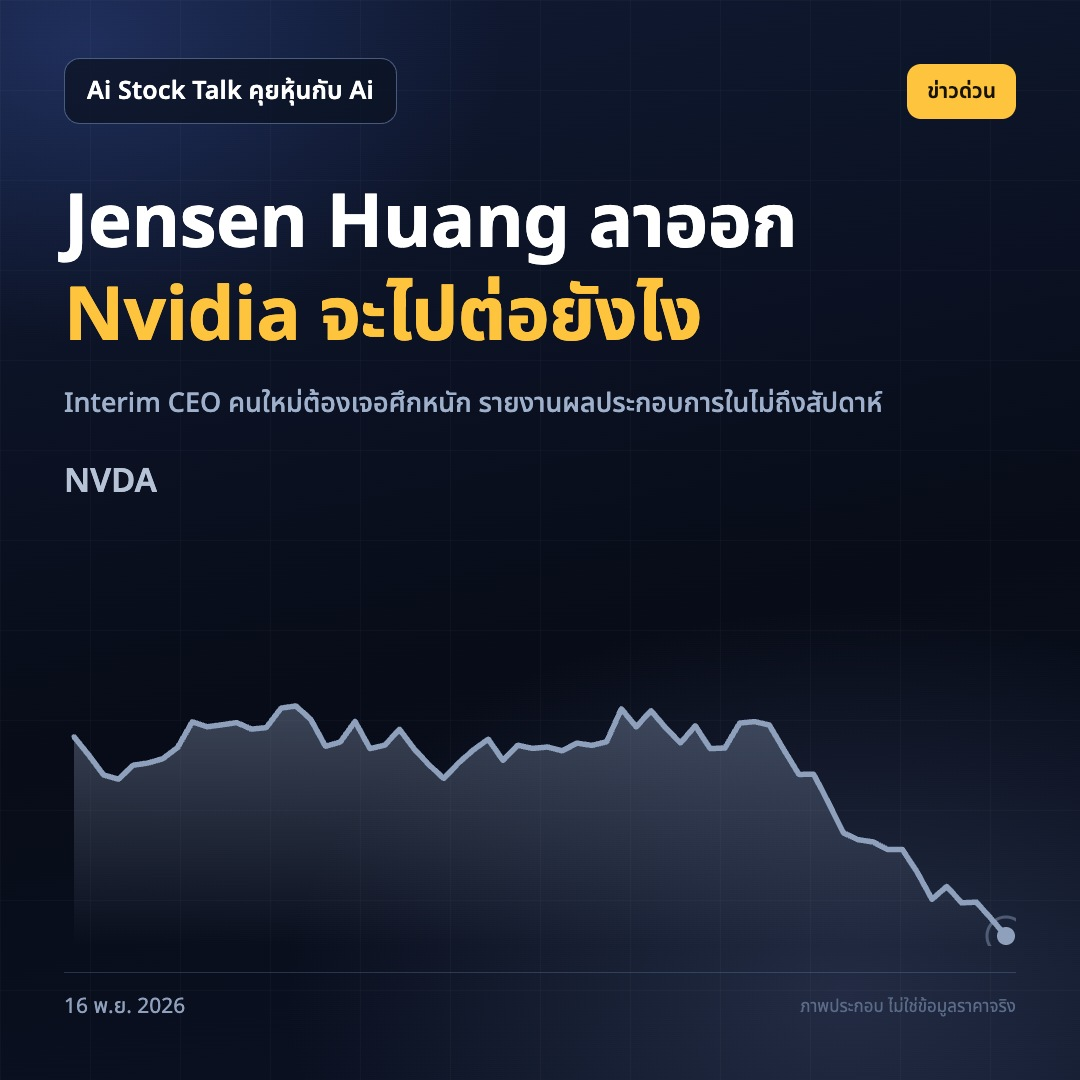
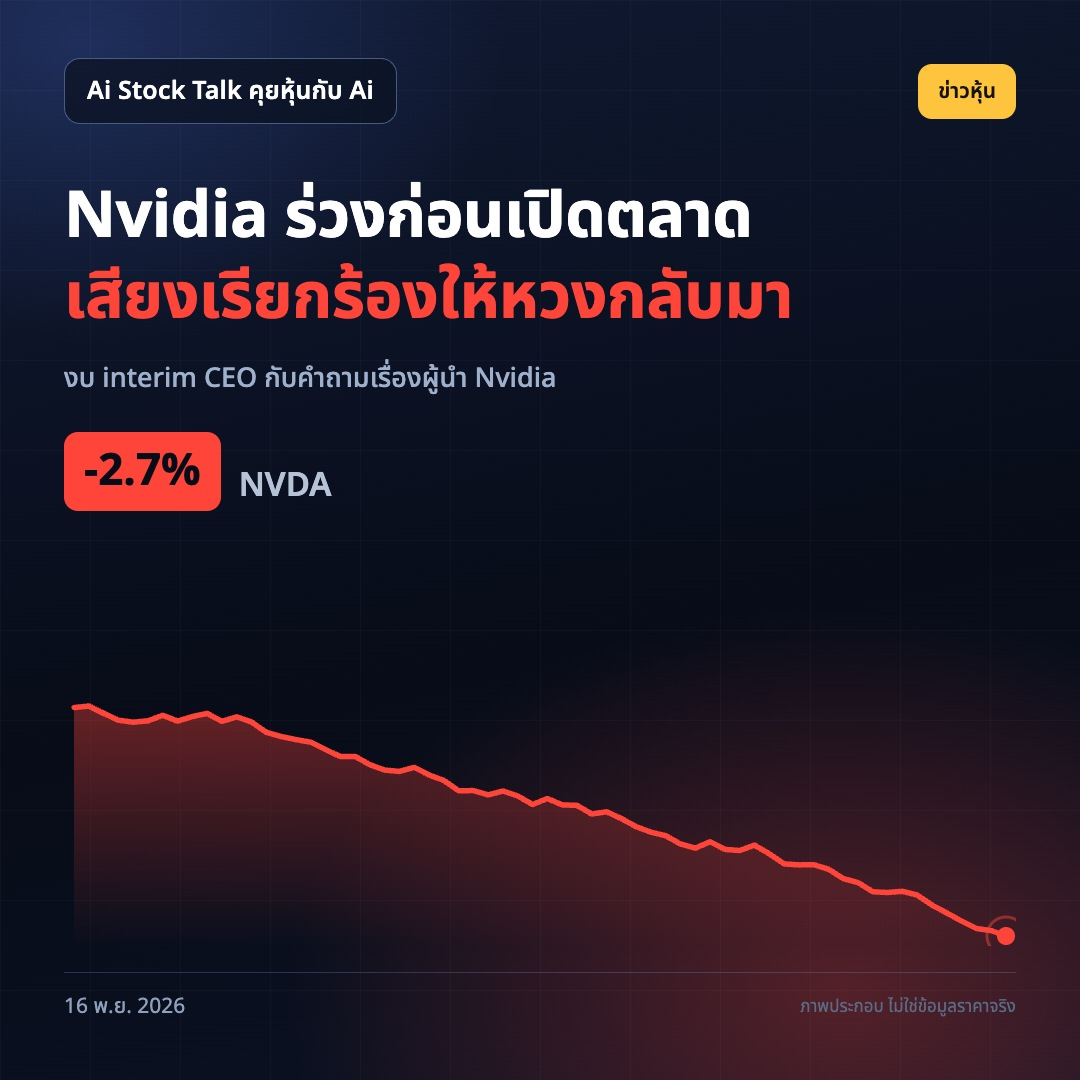
radar: 2026-11-16/17 (agent-mode posts)

Changed region(s): [[0.0611, 0.6417, 1.0, 1.0], [0.0611, 0.1528, 0.825, 0.4889], [0.825, 0.0611, 0.9167, 0.1222]]

diff --git a/docs/2026-11-17.html b/docs/2026-11-17.html
@@ -1,0 +1,68 @@
+<!doctype html>
+<html lang="th"><head>
+<meta charset="utf-8">
+<meta name="viewport" content="width=device-width,initial-scale=1">
+<title>Ai Stock Talk คุยหุ้นกับ Ai — 17 พ.ย. 2026</title>
+<meta name="description" content="Horizon AI News Radar — สรุปข่าว AI/เทคโนโลยี/การเงิน ภาษาไทยรายวัน">
+<meta property="og:title" content="Ai Stock Talk คุยหุ้นกับ Ai — 17 พ.ย. 2026">
+<meta property="og:description" content="สรุปข่าว AI/Tech/Finance ภาษาไทยรายวัน">
+<meta property="og:image" content="https://tstevy3a.github.io/horizon-ai-radar/img/cover-2026-11-17.jpg">
+<link rel="stylesheet" href="assets/style.css">
+</head><body><div class="wrap">
+<header class="top">
+  <a href="index.html" style="color:#fff;font-weight:700;font-size:16px">Horizon AI News Radar</a>
+  <span class="badge">รายวัน</span>
+</header>
+<h1>Ai Stock Talk คุยหุ้นกับ Ai — 17 พ.ย. 2026</h1>
+<p class="meta">เผยแพร่ 2026-11-17</p>
+<img class="cover" src="img/cover-2026-11-17.jpg" alt="ภาพปกข่าว 2026-11-17">
+<article><h2>1. เศรษฐกิจจีนชะลอตัวรอบ ต.ค. ค้าปลีก-ผลผลิต-ลงทุน ต่ำกว่าคาดพร้อมกัน</h2>
+<p><img alt="cover" src="img/post-1-cover-2026-11-17.jpg" /></p>
+<p>ยอดค้าปลีก ผลผลิตอุตสาหกรรม และการลงทุนของจีนเดือน ต.ค. ออกมาต่ำกว่าที่นักวิเคราะห์คาดพร้อมกันทั้งสามตัว
+การที่ตัวเลขหลักอ่อนพร้อมกันบ่งชี้ว่าแรงส่งในประเทศกำลังแผ่ว และเศรษฐกิจจีนต้องพึ่งความต้องการจากต่างประเทศมากขึ้น
+นักวิเคราะห์เตือนว่าเมื่อพึ่งการส่งออกมากขึ้น เศรษฐกิจจีนก็รับแรงกระแทกจากภายนอกได้ง่ายขึ้นตามไปด้วย
+ทำไมต้องสน: จีนเป็นคู่ค้าหลักของไทยทั้งส่งออก ผลไม้ ท่องเที่ยว และวัตถุดิบอุตสาหกรรม ตัวเลขที่อ่อนต่อเนื่องกดความเชื่อมั่นหุ้นไทยกลุ่มส่งออกและท่องเที่ยวได้
+คุณคิดว่าหุ้นไทยกลุ่มไหนจะรับผลจากเศรษฐกิจจีนชะลอตัวมากที่สุด?
+ที่มา: https://www.cnbc.com/2026/11/16/china-retail-sales-october-industrial-output-investment.html</p>
+<h1>เศรษฐกิจจีน #หุ้นไทย #ส่งออก</h1>
+<h2>2. IMF เตือนเงินหมุนเวียนในกลุ่ม AI แตะ 1 ล้านล้านดอลลาร์ สองในสามเป็นหนี้</h2>
+<p><img alt="cover" src="img/post-2-cover-2026-11-17.jpg" /></p>
+<p>IMF ระบุว่าเงินหมุนเวียนระหว่างบริษัท AI หรือ circular financing พุ่งแตะกว่า 1 ล้านล้านดอลลาร์แล้ว โดยประมาณสองในสามเป็นหนี้
+คริสตาลินา จอร์เจียวา ผู้อำนวยการ IMF อธิบายว่าเศรษฐกิจโลกตอนนี้ยืนขาเดียว เพราะพึ่งความคึกคักของ AI เป็นแรงส่งหลัก
+circular financing คือการที่บริษัท AI ลงทุนข้ามกันไปมาเป็นวงจร เมื่อเงินก้อนใหม่หยุดหมุน ความเสี่ยงจะลามทั้งห่วงโซ่
+ทำไมต้องสน: เงินที่ดันราคาหุ้น AI มาบางส่วนเป็นหนี้ ไม่ใช่กำไรจริง เมื่อดอกเบี้ยหรือความเชื่อมั่นเปลี่ยน แรงขายจะมาจากฝั่งที่ต้องปิดสถานะ
+ถ้าเงินลงทุน AI เริ่มชะลอ คุณจะลดความเสี่ยงพอร์ตด้วยวิธีไหน?
+ที่มา: https://www.cnbc.com/2026/11/16/imf-georgieva-warning-ai-circular-financing.html</p>
+<h1>ไอเอ็มเอฟ #หุ้นเอไอ #ความเสี่ยงตลาด</h1>
+<h2>3. ถ้าฟองสบู่ AI แตก ตลาดอาจร่วง 25% ประเมินโดยอดีตที่ปรึกษาเศรษฐกิจทำเนียบขาว</h2>
+<p><img alt="cover" src="img/post-3-cover-2026-11-17.jpg" /></p>
+<p>เจสัน เฟอร์แมน อดีตประธานสภาที่ปรึกษาเศรษฐกิจทำเนียบขาว ประเมินว่า ถ้า AI เป็นฟองสบู่และแตกจริง ตลาดหุ้นโดยรวมมีโอกาสร่วงราว 25%
+เขามองว่านี่คือสถานการณ์ที่น่าจะเป็นที่สุด ไม่ใช่กรณีเลวร้ายสุดขั้วที่หลายคนจินตนาการ
+ตัวเลข 25% มาจากการเทียบขนาดเงินลงทุน AI กับมูลค่าตลาดรวม ไม่ใช่คำพยากรณ์ว่าฟองสบู่จะแตกเมื่อไร
+ทำไมต้องสน: ตัวเลขนี้ใช้ตั้งรับได้ เช่น ประเมินว่าพอร์ตที่ถือหุ้นเทคหนักจะหายไปเท่าไรถ้าเหตุการณ์นี้เกิด และควรกันเงินสดหรือสินทรัพย์ป้องกันไว้แค่ไหน
+ถ้าตลาดร่วง 25% จริง คุณจะมีแผนซื้อเพิ่มหรือหยุดถือ?
+ที่มา: https://www.marketwatch.com/story/heres-how-much-the-stock-market-could-crumble-if-ai-is-a-bubble-that-bursts-according-to-former-white-house-economist-3a4c15e1?mod=mw_rss_topstories</p>
+<h1>ฟองสบู่เอไอ #หุ้นสหรัฐ #พอร์ตลงทุน</h1>
+<h2>4. จรวด Vulcan ล้มเหลว ดาวเทียม Amazon Leo 40 ดวงไม่ถึงวงโคจร</h2>
+<p><img alt="cover" src="img/post-4-cover-2026-11-17.jpg" /></p>
+<p>จรวด Vulcan ของ United Launch Alliance ล้มเหลวในการนำดาวเทียม Amazon Leo 40 ดวงขึ้นสู่วงโคจร เมื่อ 15 พ.ย.
+นี่เป็นการล้มเหลวครั้งแรกในประวัติศาสตร์ 20 ปีของ ULA และเป็นเที่ยวบินแรกจากทั้งหมด 38 เที่ยวที่ Amazon ซื้อไว้ล่วงหน้า
+ดาวเทียม Leo เป็นคู่แข่ง Starlink แต่ที่ผ่านมาขึ้นวงโคจรได้เพียงส่วนน้อย ยังไม่พอตั้งเครือข่ายบรอดแบนด์ครบ
+ทำไมต้องสน: ดาวเทียมอินเทอร์เน็ตเป็นโครงสร้างพื้นฐานของคลาวด์และ AI ระยะต่อไป ความล่าช้าครั้งนี้เลื่อนแผนของ Amazon ออกไป และเปลี่ยนจังหวะการแข่งขันในตลาดดาวเทียม
+คุณคิดว่าอินเทอร์เน็ตจากอวกาศจะแข่งกับไฟเบอร์ในไทยได้จริงไหม?
+ที่มา: https://www.theverge.com/science/1034006/vulcan-rocket-fails-destroying-40-amazon-leo-satellites</p>
+<h1>ดาวเทียม #อเมซอน #เทคโนโลยี</h1>
+<h2>5. Zoox เริ่มวิ่งรับผู้โดยสารผ่านแอป Uber ที่ลาสเวกัส</h2>
+<p><img alt="cover" src="img/post-5-cover-2026-11-17.jpg" /></p>
+<p>ผู้ใช้ Uber ในลาสเวกัสเริ่มเรียกใช้รถ robotaxi ของ Zoox ได้แล้ว ถือเป็นครั้งแรกที่ Zoox ซึ่ง Amazon เป็นเจ้าของ ออกให้บริการผ่านแพลตฟอร์มเรียกรถ
+Zoox ใช้รถที่ออกแบบมาเพื่อรับจ้างโดยเฉพาะ ห้องโดยสารนั่งหันหน้าเข้าหากัน และวิ่งได้สองทิศทาง
+ก่อนหน้านี้มีรายงานว่า Uber กับ Waymo เริ่มห่างกัน และการจับมือกับ Zoox คือทางเลือกใหม่ของ Uber
+ทำไมต้องสน: รถไร้คนขับคือปลายทางของ AI ที่จับต้องได้ และเป็นตัวชี้ว่าหุ้นกลุ่มเรียกรถกับการลงทุน robotaxi จะแบ่งเค้กกันใหม่อย่างไร
+ถ้าไทยมี robotaxi ให้ใช้ คุณจะลองนั่งไหม หรือรอให้พิสูจน์ความปลอดภัยก่อน?
+ที่มา: https://www.theverge.com/transportation/1032984/uber-zoox-robotaxi-las-vegas-launch-mgm-resorts-los-angeles</p>
+<h1>รถไร้คนขับ #อูเบอร์ #หุ้นเทคโนโลยี</h1></article>
+<footer>
+  สร้างอัตโนมัติจาก Horizon AI News Radar · <a href="https://tstevy3a.github.io/horizon-ai-radar/">หน้าแรก</a><br>
+  แหล่งข่าว: Hacker News, TechCrunch, The Verge, Ars Technica, CNBC, MarketWatch, Blognone
+</footer>
+</div></body></html>

diff --git a/docs/2026-11-16.html b/docs/2026-11-16.html
@@ -16,23 +16,15 @@
 <h1>Ai Stock Talk คุยหุ้นกับ Ai — 16 พ.ย. 2026</h1>
 <p class="meta">เผยแพร่ 2026-11-16</p>
 <img class="cover" src="img/cover-2026-11-16.jpg" alt="ภาพปกข่าว 2026-11-16">
-<article><h2>1. Jensen Huang ลาออกจาก CEO Nvidia แล้ว Colette Kress รับตำแหน่งทันที</h2>
+<article><h2>1. Nvidia ร่วงก่อนเปิดตลาด เสียงเรียกร้องให้เจนเซน หวง กลับมาดังขึ้น</h2>
 <p><img alt="cover" src="img/post-1-cover-2026-11-16.jpg" /></p>
-<p>Jensen Huang ลาออกจากตำแหน่ง CEO ของ Nvidia แล้ว หลังพาบริษัทครองตลาดชิป AI มายาวนาน</p>
-<p>Colette Kress รับตำแหน่ง interim CEO ทันที และต้องรายงานผลประกอบการในไม่ถึงสัปดาห์</p>
-<p>หุ้น Nvidia ซึ่งขึ้นกับความต้องการชิป AI ทั้งหมดกำลังถูกจับตา ว่าทิศทางบริษัทจะเปลี่ยนไปแค่ไหน โดยเฉพาะเมื่อลูกค้ารายใหญ่อย่างบริษัทยักษ์ใหญ่เทคเริ่มพัฒนาชิปใช้เอง</p>
-<p>ทำไมต้องสน: Nvidia คือกระดูกสันหลังของ AI ทั้งอุตสาหกรรม การเปลี่ยนผู้นำตอนตลาดผันผวนส่งผลถึงหุ้นเทคโนโลยีทั่วโลก</p>
-<p>คิดยังไงกับการลาออกครั้งนี้ หุ้น AI ในพอร์ตยังถือต่อไหม</p>
-<p>ที่มา: https://www.cnbc.com/2026/11/16/nvidia-jensen-huang-return-tech.html, https://www.theverge.com/ai-artificial-intelligence/1031740/jensen-huang-nvidia-scandal-isnt-slowing-down</p>
-<h1>Nvidia #JensenHuang #AIStocks #หุ้นเทคโนโลยี</h1>
-<h2>2. Alibaba ปล่อย Qwen4-Max ชน GPT-6.1 Sol ราคาถูกกว่าหลายเท่า</h2>
-<p><img alt="cover" src="img/post-2-cover-2026-11-16.jpg" /></p>
-<p>Alibaba เปิดตัว Qwen4-Max โมเดลภาษาขนาดใหญ่รุ่นใหม่ ตั้งค่าระดับการให้เหตุผลได้ 4 ระดับ</p>
-<p>คะแนนจาก Artificial Analysis ได้ 43 แต้ม ค่าใช้จ่ายเฉลี่ย $3.27 ต่อการเรียกใช้ ขณะที่ GPT-6.1 Sol (medium) ได้ 46 แต้ม แต่ค่าใช้จ่ายเฉลี่ยเพียง $0.36</p>
-<p>ทำไมต้องสน: โมเดล open-weight จากจีนไล่จี้ OpenAI ติดๆ ผู้ใช้มีทางเลือกมากขึ้น ถูกกว่า เร็วกว่า หรือถูกกว่ามากแล้วแต่กรณี</p>
-<p>เลือกใช้อะไรระหว่าง Qwen4-Max กับ GPT-6.1 Sol</p>
-<p>ที่มา: https://qwen.ai/blog?id=qwen4-max</p>
-<h1>Qwen4Max #Alibaba #LLM #AI</h1></article>
+<p>หุ้น Nvidia ร่วง 2.7% ในตลาดพรีมาร์เก็ตวันจันทร์ หลังนักลงทุนเริ่มคิดราคาผลกระทบจากการลาออกของเจนเซน หวง
+เสียงเรียกร้องให้เขากลับมาเป็นซีอีโอกำลังดังขึ้น ทั้งจากผู้บริหารบริษัทเทคและผู้ถือหุ้นรายใหญ่ ขณะที่ Colette Kress ซีอีโอชั่วคราวต้องรายงานผลประกอบการครั้งแรกหลังหวงอำลา
+ฝั่งนักวิเคราะห์ยังให้ราคาเป้าหมายกลางที่ 280 ดอลลาร์ สูงกว่าราคาปัจจุบันมาก สะท้อนว่าตลาดยังแยกเรื่องคนคุมบริษัทออกจากกำลังซื้อชิปที่ยังแข็ง
+ทำไมต้องสน: คนไทยที่ถือหุ้นสหรัฐหรือกองทุนเทคโนโลยีควรจับตางบสัปดาห์นี้กับข่าวการกลับมาของหวง เพราะสองเรื่องนี้จะบอกทิศทางหุ้นชิปทั้งกลุ่ม
+ถ้าต้องเลือก คุณอยากให้หวงกลับมาเป็นซีอีโอ หรือให้บอร์ดเลือกคนใหม่ที่มาจากสายปฏิบัติการ?
+ที่มา: https://www.cnbc.com/2026/11/16/nvidia-stock-price-jensen-huang.html</p>
+<h1>เอ็นวิเดีย #หุ้นชิป #หุ้นสหรัฐ</h1></article>
 <footer>
   สร้างอัตโนมัติจาก Horizon AI News Radar · <a href="https://tstevy3a.github.io/horizon-ai-radar/">หน้าแรก</a><br>
   แหล่งข่าว: Hacker News, TechCrunch, The Verge, Ars Technica, CNBC, MarketWatch, Blognone

diff --git a/docs/index.html b/docs/index.html
@@ -13,7 +13,8 @@
   <a href="index.html" style="color:#fff;font-weight:700;font-size:16px">Horizon AI News Radar</a>
   <span class="badge">รายวัน</span>
 </header>
-<h1>Ai Stock Talk คุยหุ้นกับ Ai — 16 พ.ย. 2026</h1><p class="meta">ฉบับล่าสุด 2026-11-16</p><a class="card" href="2026-11-16.html"><div class="t">อ่านฉบับเต็ม →</div></a><h2 style='font-size:19px;margin-top:34px'>ย้อนหลัง</h2><a class="card" href="2026-11-16.html"><div class="d">2026-11-16</div><div class="t">Ai Stock Talk คุยหุ้นกับ Ai — 16 พ.ย. 2026</div><div class="s"></div></a>
+<h1>Ai Stock Talk คุยหุ้นกับ Ai — 17 พ.ย. 2026</h1><p class="meta">ฉบับล่าสุด 2026-11-17</p><a class="card" href="2026-11-17.html"><div class="t">อ่านฉบับเต็ม →</div></a><h2 style='font-size:19px;margin-top:34px'>ย้อนหลัง</h2><a class="card" href="2026-11-17.html"><div class="d">2026-11-17</div><div class="t">Ai Stock Talk คุยหุ้นกับ Ai — 17 พ.ย. 2026</div><div class="s"></div></a>
+<a class="card" href="2026-11-16.html"><div class="d">2026-11-16</div><div class="t">Ai Stock Talk คุยหุ้นกับ Ai — 16 พ.ย. 2026</div><div class="s"></div></a>
 <a class="card" href="2026-11-14.html"><div class="d">2026-11-14</div><div class="t">Ai Stock Talk คุยหุ้นกับ Ai — 14 พ.ย. 2026</div><div class="s"></div></a>
 <a class="card" href="2026-11-13.html"><div class="d">2026-11-13</div><div class="t">Ai Stock Talk คุยหุ้นกับ Ai — 13 พ.ย. 2026</div><div class="s"></div></a>
 <footer>

diff --git a/README.md b/README.md
@@ -2,6 +2,7 @@
 
 สรุปข่าวภาษาไทยรายวัน
 
+- [2026-11-17 — Ai Stock Talk คุยหุ้นกับ Ai — 17 พ.ย. 2026](https://tstevy3a.github.io/horizon-ai-radar/2026-11-17.html)
 - [2026-11-16 — Ai Stock Talk คุยหุ้นกับ Ai — 16 พ.ย. 2026](https://tstevy3a.github.io/horizon-ai-radar/2026-11-16.html)
 - [2026-11-14 — Ai Stock Talk คุยหุ้นกับ Ai — 14 พ.ย. 2026](https://tstevy3a.github.io/horizon-ai-radar/2026-11-14.html)
 - [2026-11-13 — Ai Stock Talk คุยหุ้นกับ Ai — 13 พ.ย. 2026](https://tstevy3a.github.io/horizon-ai-radar/2026-11-13.html)
